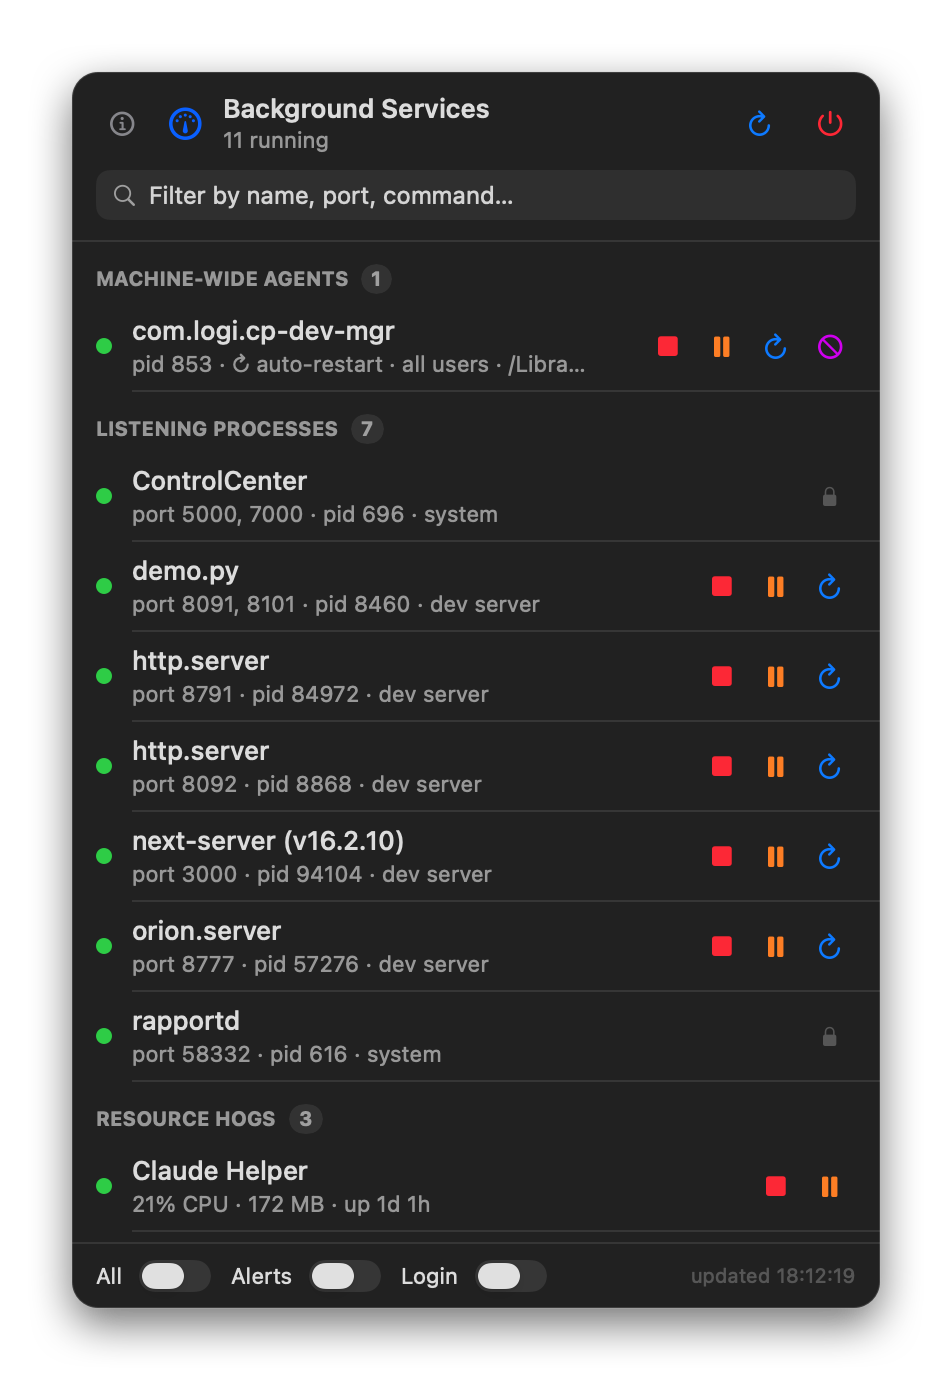
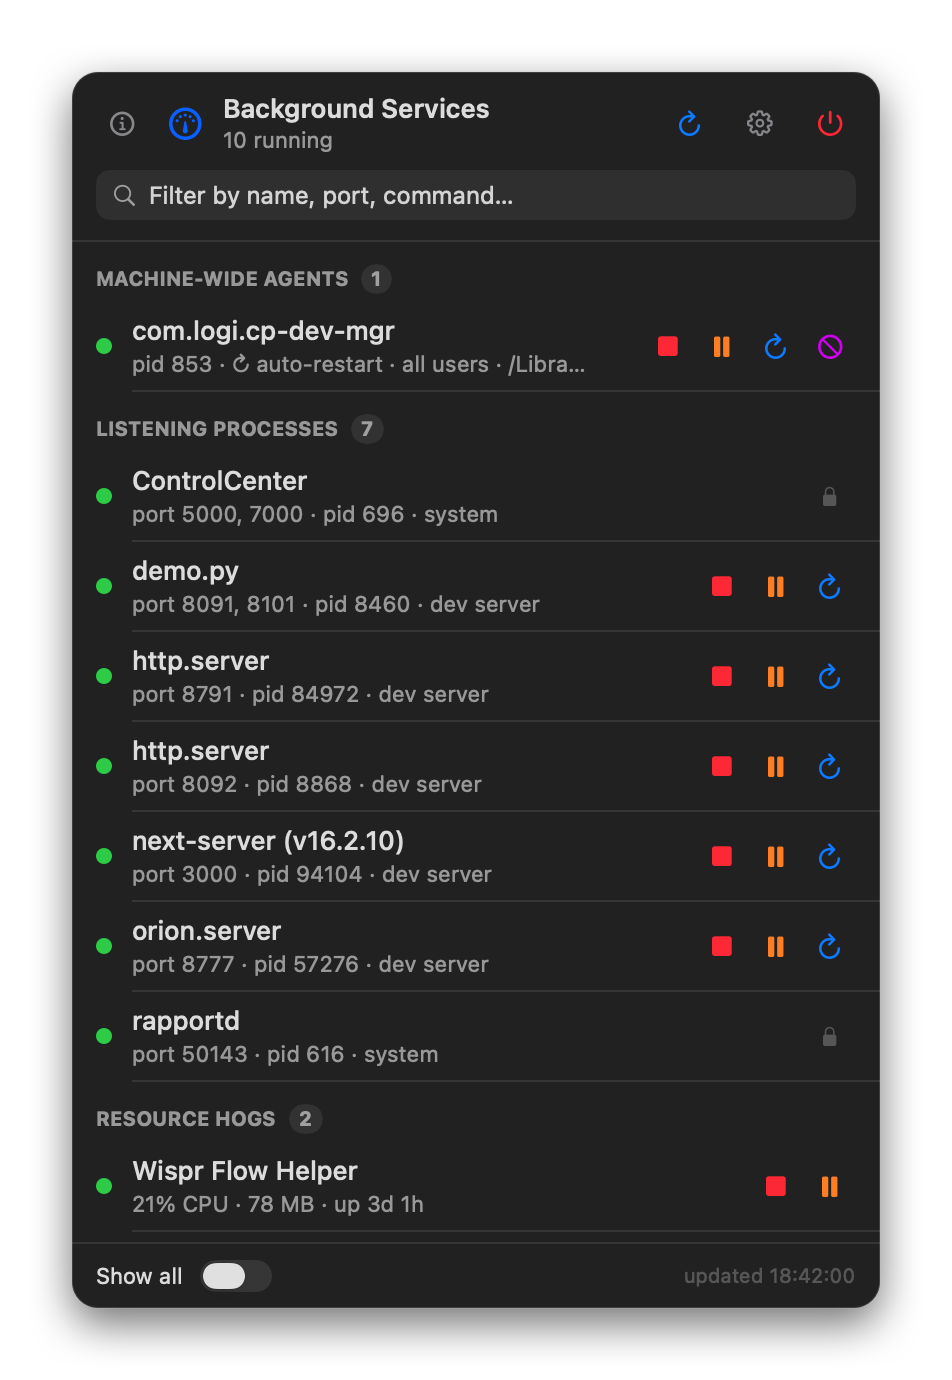
release: v1.4.0 — settings panel for alerts, login, and updates

diff --git a/Sources/Views.swift b/Sources/Views.swift
@@ -21,12 +21,13 @@ struct RootView: View {
     @State private var expandedId: String?
     @State private var isOpen = false
     @State private var showInfo: Bool
-    @State private var loginEnabled = SMAppService.mainApp.status == .enabled
+    @State private var showSettings: Bool
 
     private let ticker = Timer.publish(every: 6, on: .main, in: .common).autoconnect()
 
-    init(showInfoInitially: Bool = false) {
+    init(showInfoInitially: Bool = false, showSettingsInitially: Bool = false) {
         _showInfo = State(initialValue: showInfoInitially)
+        _showSettings = State(initialValue: showSettingsInitially)
     }
 
     var body: some View {
@@ -40,7 +41,6 @@ struct RootView: View {
         .frame(width: 404)
         .onAppear {
             isOpen = true
-            loginEnabled = SMAppService.mainApp.status == .enabled
             store.refresh()
         }
         .onDisappear { isOpen = false }
@@ -55,7 +55,10 @@ struct RootView: View {
                 IconButton(system: showInfo ? "info.circle.fill" : "info.circle",
                            color: showInfo ? .blue : .gray,
                            help: "What everything here means") {
-                    withAnimation(.easeInOut(duration: 0.15)) { showInfo.toggle() }
+                    withAnimation(.easeInOut(duration: 0.15)) {
+                        showInfo.toggle()
+                        showSettings = false
+                    }
                 }
                 Image(systemName: "gauge.with.dots.needle.bottom.50percent")
                     .font(.system(size: 16, weight: .semibold))
@@ -74,6 +77,14 @@ struct RootView: View {
                     }
                 }
                 IconButton(system: "arrow.clockwise", color: .blue, help: "Rescan") { store.refresh() }
+                IconButton(system: showSettings ? "gearshape.fill" : "gearshape",
+                           color: showSettings ? .blue : .gray,
+                           help: "Settings — alerts, login, updates") {
+                    withAnimation(.easeInOut(duration: 0.15)) {
+                        showSettings.toggle()
+                        showInfo = false
+                    }
+                }
                 IconButton(system: "power", color: .red, help: "Quit bgviewer") { NSApp.terminate(nil) }
             }
             HStack(spacing: 6) {
@@ -101,6 +112,8 @@ struct RootView: View {
     @ViewBuilder private var content: some View {
         if showInfo {
             InfoPanel()
+        } else if showSettings {
+            SettingsPanel()
         } else {
             listContent
         }
@@ -159,27 +172,10 @@ struct RootView: View {
 
     private var footer: some View {
         HStack(spacing: 10) {
-            Toggle("All", isOn: $showInactive)
+            Toggle("Show all", isOn: $showInactive)
                 .toggleStyle(.switch).controlSize(.mini)
                 .font(.system(size: 11))
                 .help("Include stopped and idle services")
-            Toggle("Alerts", isOn: Binding(get: { store.alertsEnabled }, set: { store.setAlerts($0) }))
-                .toggleStyle(.switch).controlSize(.mini)
-                .font(.system(size: 11))
-                .help("Notify when a new dev server starts listening")
-            Toggle("Login", isOn: $loginEnabled)
-                .toggleStyle(.switch).controlSize(.mini)
-                .font(.system(size: 11))
-                .help("Start bgviewer automatically when you log in")
-                .onChange(of: loginEnabled) { on in
-                    do {
-                        if on { try SMAppService.mainApp.register() }
-                        else { try SMAppService.mainApp.unregister() }
-                    } catch {
-                        store.statusMessage = "Login item: \(error.localizedDescription)"
-                        loginEnabled = SMAppService.mainApp.status == .enabled
-                    }
-                }
             Spacer()
             if let msg = store.statusMessage {
                 Label(msg, systemImage: "exclamationmark.triangle.fill")
@@ -214,6 +210,95 @@ struct RootView: View {
             return "v\(v) · updated \(store.lastUpdated)"
         }
         return "updated \(store.lastUpdated)"
+    }
+}
+
+// MARK: - Settings panel
+
+struct SettingsPanel: View {
+    @EnvironmentObject var store: ServiceStore
+    @State private var loginEnabled = SMAppService.mainApp.status == .enabled
+
+    var body: some View {
+        ScrollView {
+            VStack(alignment: .leading, spacing: 14) {
+                sectionTitle("Notifications")
+                SettingRow(
+                    title: "New dev server alerts",
+                    caption: "Pings you the moment something new starts listening on a port — even while this window is closed. Watches once a minute; dev servers only, so browsers and regular apps never trigger it. macOS will ask for notification permission the first time.",
+                    isOn: Binding(get: { store.alertsEnabled }, set: { store.setAlerts($0) }))
+
+                sectionTitle("General")
+                SettingRow(
+                    title: "Start at login",
+                    caption: "Keeps the gauge in your menu bar after a restart. Registers bgviewer as a standard macOS login item — you can also manage it under System Settings → Login Items.",
+                    isOn: Binding(get: { loginEnabled }, set: { setLogin($0) }))
+
+                sectionTitle("Updates")
+                VStack(alignment: .leading, spacing: 8) {
+                    HStack(spacing: 6) {
+                        Chip(label: "Check for updates", system: "arrow.triangle.2.circlepath") {
+                            store.checkForUpdate(force: true)
+                        }
+                        if let v = store.updateAvailable {
+                            Chip(label: "Get v\(v)", system: "arrow.down.circle") {
+                                if let url = URL(string: "https://github.com/AroraShreshth/bgviewer/releases/latest") {
+                                    NSWorkspace.shared.open(url)
+                                }
+                            }
+                        }
+                        Spacer()
+                        if let status = store.updateStatus {
+                            Text(status).font(.system(size: 10.5)).foregroundStyle(.secondary)
+                        }
+                    }
+                    Text("bgviewer checks GitHub for new releases at most once every 6 hours — its only network call. No telemetry, ever.")
+                        .font(.system(size: 10.5)).foregroundStyle(.secondary)
+                        .fixedSize(horizontal: false, vertical: true)
+                }
+            }
+            .padding(.horizontal, 14)
+            .padding(.vertical, 12)
+        }
+        .frame(height: 330)
+    }
+
+    private func setLogin(_ on: Bool) {
+        do {
+            if on { try SMAppService.mainApp.register() }
+            else { try SMAppService.mainApp.unregister() }
+            loginEnabled = on
+        } catch {
+            store.statusMessage = "Login item: \(error.localizedDescription)"
+            loginEnabled = SMAppService.mainApp.status == .enabled
+        }
+    }
+
+    private func sectionTitle(_ t: String) -> some View {
+        Text(t.uppercased())
+            .font(.system(size: 10, weight: .bold))
+            .foregroundStyle(.secondary)
+    }
+}
+
+struct SettingRow: View {
+    let title: String
+    let caption: String
+    @Binding var isOn: Bool
+
+    var body: some View {
+        HStack(alignment: .top, spacing: 12) {
+            VStack(alignment: .leading, spacing: 2.5) {
+                Text(title).font(.system(size: 12, weight: .semibold))
+                Text(caption).font(.system(size: 10.5)).foregroundStyle(.secondary)
+                    .fixedSize(horizontal: false, vertical: true)
+            }
+            Spacer(minLength: 8)
+            Toggle("", isOn: $isOn)
+                .labelsHidden()
+                .toggleStyle(.switch)
+                .controlSize(.small)
+        }
     }
 }
 
@@ -257,7 +342,7 @@ struct InfoPanel: View {
                 InfoRow(icon: "clock.arrow.circlepath", color: .secondaryInfo, title: "Always current",
                         text: "The list re-scans every few seconds while open.")
                 InfoRow(icon: "bell.badge", color: .secondaryInfo, title: "Alerts",
-                        text: "Flip \"Alerts\" in the footer to get a notification whenever a new dev server starts listening — even while this window is closed.")
+                        text: "Turn on alerts in Settings (the ⚙ up top) to get a notification whenever a new dev server starts listening — even while this window is closed.")
 
                 HStack(spacing: 8) {
                     Chip(label: "GitHub — docs & issues", system: "arrow.up.right.square") {

diff --git a/Sources/ServiceStore.swift b/Sources/ServiceStore.swift
@@ -10,6 +10,7 @@ final class ServiceStore: ObservableObject {
     @Published var statusMessage: String?   // last action's error, shown in the footer
     @Published var alertsEnabled = false    // notify when a new dev server starts listening
     @Published var updateAvailable: String? // newer release tag, when one exists
+    @Published var updateStatus: String?    // result line for manual update checks
 
     private var watchTask: Task<Void, Never>?
 
@@ -126,23 +127,34 @@ final class ServiceStore: ObservableObject {
 
     // MARK: Update check
 
-    /// One lightweight GitHub API call, at most every 6 hours. This is the
-    /// app's only network access.
-    private func checkForUpdate() {
+    /// One lightweight GitHub API call, at most every 6 hours (or on demand
+    /// from Settings). This is the app's only network access.
+    func checkForUpdate(force: Bool = false) {
         guard Self.isRealApp else { return }
         let now = Date().timeIntervalSince1970
-        let last = UserDefaults.standard.double(forKey: "lastUpdateCheck")
-        guard now - last > 6 * 3600 else { return }
+        if !force {
+            let last = UserDefaults.standard.double(forKey: "lastUpdateCheck")
+            guard now - last > 6 * 3600 else { return }
+        }
         UserDefaults.standard.set(now, forKey: "lastUpdateCheck")
         let current = Bundle.main.infoDictionary?["CFBundleShortVersionString"] as? String ?? "0"
+        if force { updateStatus = "Checking…" }
         Task.detached { [weak self] in
             guard let url = URL(string: "https://api.github.com/repos/AroraShreshth/bgviewer/releases/latest"),
                   let (data, _) = try? await URLSession.shared.data(from: url),
                   let obj = try? JSONSerialization.jsonObject(with: data) as? [String: Any],
-                  let tag = obj["tag_name"] as? String else { return }
+                  let tag = obj["tag_name"] as? String else {
+                if force { await MainActor.run { [weak self] in self?.updateStatus = "Couldn't reach GitHub" } }
+                return
+            }
             let remote = tag.hasPrefix("v") ? String(tag.dropFirst()) : tag
-            if isNewerVersion(remote, than: current) {
-                await MainActor.run { [weak self] in self?.updateAvailable = remote }
+            await MainActor.run { [weak self] in
+                if isNewerVersion(remote, than: current) {
+                    self?.updateAvailable = remote
+                    if force { self?.updateStatus = "v\(remote) is available" }
+                } else if force {
+                    self?.updateStatus = "Up to date — v\(current)"
+                }
             }
         }
     }

diff --git a/CHANGELOG.md b/CHANGELOG.md
@@ -1,5 +1,12 @@
 # Changelog
 
+## 1.4.0 — 2026-07-14
+
+- Settings panel (⚙ in the header): Alerts and Start-at-login moved out of the
+  footer, each with a plain-English explanation, plus an Updates section with
+  a check-now button and the no-telemetry disclosure
+- Footer slimmed back down to "Show all" + status
+
 ## 1.3.0 — 2026-07-14
 
 The awareness release.

diff --git a/README.md b/README.md
@@ -42,7 +42,7 @@ Agents that can resurrect themselves are marked **↻ auto-restart**, so you kno
 
 Every action is verified after it runs; if something fails, the reason shows up in the footer. Nothing fails silently.
 
-Beyond the buttons: **click a row** for details — the full command line, *Copy command*, *Reveal plist*, *View log*, and for dev servers a one-click *open localhost:port*. There's a **search box** (name, port, or command), the list **auto-refreshes every few seconds while open**, and footer toggles for **start at login** and **Alerts** — a notification the moment a new dev server starts listening, even while the dropdown is closed. A subtle **update button** appears in the header when a newer release exists (a daily GitHub check is the app's only network call). All of this is also explained in-app — the **ⓘ** button top-left.
+Beyond the buttons: **click a row** for details — the full command line, *Copy command*, *Reveal plist*, *View log*, and for dev servers a one-click *open localhost:port*. There's a **search box** (name, port, or command) and the list **auto-refreshes every few seconds while open**. The **⚙ Settings panel** holds **Alerts** (a notification the moment a new dev server starts listening, even while the dropdown is closed), **start at login**, and an update check — one GitHub call at most every 6 hours is the app's only network access. A green **update button** appears in the header when a newer release exists. All of this is also explained in-app — the **ⓘ** button top-left.
 
 ## How Disable works (and why it's safe)
 